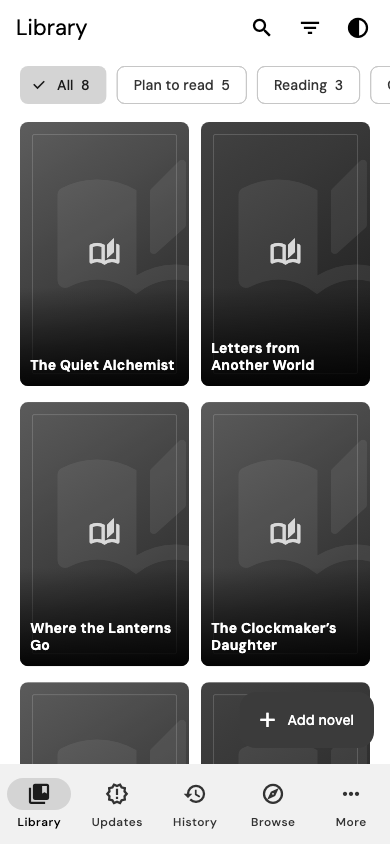
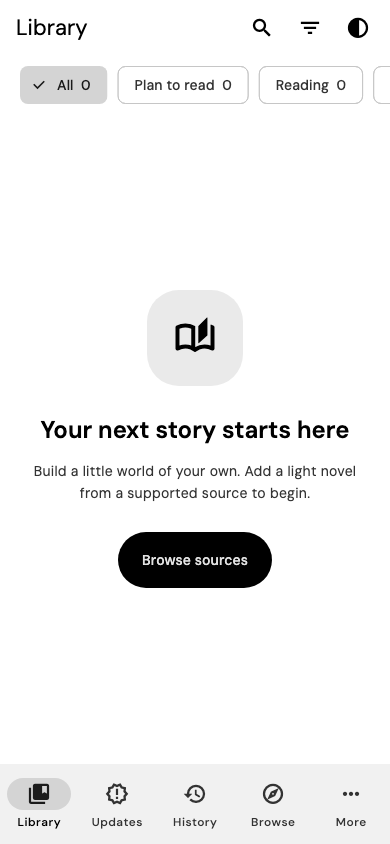
Rename UI to Moonleaf and keep libraries and previews empty

diff --git a/flutter_app/tool/preview_test.dart b/flutter_app/tool/preview_test.dart
@@ -1,35 +1,10 @@
-// Review-only fixtures; the installed app starts with an empty library.
+// Preview the actual empty first-run library, with no seeded novel data.
 // flutter test tool/preview_test.dart --update-goldens
-import 'package:flutter/material.dart';
 import 'package:flutter/services.dart';
 import 'package:flutter_test/flutter_test.dart';
 import 'package:novel_to_epub/library/library_store.dart';
 import 'package:novel_to_epub/main.dart';
 
-LibraryStore previewStore(AppAppearance appearance) => LibraryStore(
-  appearance: appearance,
-  novels: [
-    for (final (index, title) in [
-      'The Paper Kingdom',
-      'A Sky Full of Letters',
-      'The Last Winter Mage',
-      'A Library Beyond the Stars',
-      'The Clockmaker’s Daughter',
-      'Where the Lanterns Go',
-      'Letters from Another World',
-      'The Quiet Alchemist',
-    ].indexed)
-      LibraryNovel(
-        url: 'https://roliascan.com/manga/preview-$index',
-        title: title,
-        author: 'Sample Author',
-        firstChapter: 'https://roliascan.com/read/preview/ch1/',
-        addedAt: DateTime(2026, 1, index + 1),
-        shelf: index % 3 == 0 ? 'Reading' : 'Plan to read',
-        description: 'In a city that has forgotten how to dream, one young librarian discovers that every unwritten story is a doorway. Beyond the shelves, a world of impossible wonders is waiting. These are sample details for reviewing the interface.',
-      ),
-  ],
-);
 void main() {
   setUpAll(() async {
     final icons = FontLoader('MaterialIcons')
@@ -51,18 +26,18 @@ void main() {
     'phone-light': (const Size(390, 844), AppAppearance.light),
     'ereader-light': (const Size(390, 844), AppAppearance.ereaderLight),
     'ereader-dark': (const Size(390, 844), AppAppearance.ereaderDark),
-    'detail': (const Size(390, 844), AppAppearance.dark),
+    'more': (const Size(390, 844), AppAppearance.dark),
   }.entries) {
     testWidgets('${entry.key} preview', (tester) async {
       tester.view.physicalSize = entry.value.$1;
       tester.view.devicePixelRatio = 1;
       addTearDown(tester.view.resetPhysicalSize);
       addTearDown(tester.view.resetDevicePixelRatio);
-      final store = previewStore(entry.value.$2);
+      final store = LibraryStore(appearance: entry.value.$2);
       await tester.pumpWidget(NovelApp(store: store));
       await tester.pumpAndSettle();
-      if (entry.key == 'detail') {
-        await tester.tap(find.byKey(ValueKey(store.novels.last.url)));
+      if (entry.key == 'more') {
+        await tester.tap(find.text('More').last);
         await tester.pumpAndSettle();
       }
       await expectLater(

diff --git a/flutter_app/lib/library/library_screen.dart b/flutter_app/lib/library/library_screen.dart
@@ -311,7 +311,7 @@ class _LibraryScreenState extends State<LibraryScreen> {
                   leading: Padding(
                     padding: const EdgeInsets.only(top: 16, bottom: 28),
                     child: Tooltip(
-                      message: 'Chapter & Verse',
+                      message: 'Moonleaf',
                       child: Icon(
                         Icons.auto_stories_rounded,
                         size: 30,
@@ -603,7 +603,7 @@ class _LibraryScreenState extends State<LibraryScreen> {
           ),
           const SizedBox(height: 16),
           Text(
-            'Chapter & Verse',
+            'Moonleaf',
             textAlign: TextAlign.center,
             style: Theme.of(context).textTheme.headlineSmall
                 ?.copyWith(fontFamily: 'Fraunces'),
@@ -662,7 +662,7 @@ class _LibraryScreenState extends State<LibraryScreen> {
             title: const Text('Open-source licenses'),
             onTap: () => showLicensePage(
               context: context,
-              applicationName: 'Chapter & Verse',
+              applicationName: 'Moonleaf',
             ),
           ),
         ],

diff --git a/flutter_app/test/library_test.dart b/flutter_app/test/library_test.dart
@@ -23,6 +23,20 @@ LibraryNovel fixture(
 );
 
 void main() {
+  testWidgets('fresh install has an empty library and Moonleaf branding', (
+    tester,
+  ) async {
+    SharedPreferences.setMockInitialValues({});
+    await tester.pumpWidget(const NovelApp());
+    await tester.pumpAndSettle();
+    expect((await LibraryStore.load()).novels, isEmpty);
+    expect(find.text('Your next story starts here'), findsOneWidget);
+    expect(find.byKey(const Key('library-grid')), findsNothing);
+    await tester.tap(find.text('More').last);
+    await tester.pumpAndSettle();
+    expect(find.text('Moonleaf'), findsOneWidget);
+  });
+
   test(
     'library, shelves, history and e-reader preference survive reload',
     () async {

diff --git a/flutter_app/lib/widgets/book_art.dart b/flutter_app/lib/widgets/book_art.dart
@@ -5,7 +5,7 @@ class BookArt extends StatelessWidget {
   const BookArt({
     super.key,
     this.title = 'Your next\ngreat read',
-    this.author = 'CHAPTER & VERSE',
+    this.author = 'MOONLEAF',
   });
   final String title;
   final String author;
@@ -73,7 +73,7 @@ class BookArt extends StatelessWidget {
                         width: constraints.maxWidth,
                         child: Text(
                           author.isEmpty
-                              ? 'CHAPTER & VERSE'
+                              ? 'MOONLEAF'
                               : author.toUpperCase(),
                           maxLines: 2,
                           overflow: TextOverflow.ellipsis,

diff --git a/flutter_app/tool/smoke_site.dart b/flutter_app/tool/smoke_site.dart
@@ -8,11 +8,12 @@ import 'package:novel_to_epub/data/site_extractors.dart';
 import 'package:novel_to_epub/data/epub_writer.dart';
 
 Future<void> main(List<String> args) async {
-  final url = Uri.parse(
-    args.isEmpty
-        ? 'https://roliascan.com/manga/the-regressor-and-the-blind-saint-novel/'
-        : args.single,
-  );
+  if (args.length != 1) {
+    stderr.writeln('Usage: dart run tool/smoke_site.dart <novel-url>');
+    exitCode = 64;
+    return;
+  }
+  final url = Uri.parse(args.single);
   final client = http.Client();
   try {
     Future<String> fetch(Uri uri) async {

diff --git a/flutter_app/web/index.html b/flutter_app/web/index.html
@@ -23,13 +23,13 @@
   <!-- iOS meta tags & icons -->
   <meta name="mobile-web-app-capable" content="yes">
   <meta name="apple-mobile-web-app-status-bar-style" content="black">
-  <meta name="apple-mobile-web-app-title" content="Chapter &amp; Verse">
+  <meta name="apple-mobile-web-app-title" content="Moonleaf">
   <link rel="apple-touch-icon" href="icons/Icon-192.png">
 
   <!-- Favicon -->
   <link rel="icon" type="image/png" href="favicon.png"/>
 
-  <title>Chapter &amp; Verse</title>
+  <title>Moonleaf</title>
   <link rel="manifest" href="manifest.json">
 </head>
 <body>

diff --git a/flutter_app/lib/main.dart b/flutter_app/lib/main.dart
@@ -91,7 +91,7 @@ class _NovelAppState extends State<NovelApp> {
             mode == AppAppearance.ereaderLight ||
             mode == AppAppearance.ereaderDark;
         return MaterialApp(
-          title: 'Chapter & Verse',
+          title: 'Moonleaf',
           debugShowCheckedModeBanner: false,
           theme: novelTheme(Brightness.light, ereader: ereader),
           darkTheme: novelTheme(Brightness.dark, ereader: ereader),

diff --git a/flutter_app/lib/library/library_store.dart b/flutter_app/lib/library/library_store.dart
@@ -79,6 +79,7 @@ class LibraryStore extends ChangeNotifier {
     this.grid = true,
     this.sortByTitle = false,
   }) : _novels = List.of(novels);
+  // Keep the existing private storage key so renaming the app preserves user data.
   static const storageKey = 'chapter_verse_library_v1';
   List<LibraryNovel> _novels;
   List<LibraryNovel> get novels => List.unmodifiable(_novels);

diff --git a/flutter_app/linux/runner/my_application.cc b/flutter_app/linux/runner/my_application.cc
@@ -45,11 +45,11 @@ static void my_application_activate(GApplication* application) {
   if (use_header_bar) {
     GtkHeaderBar* header_bar = GTK_HEADER_BAR(gtk_header_bar_new());
     gtk_widget_show(GTK_WIDGET(header_bar));
-    gtk_header_bar_set_title(header_bar, "Chapter & Verse");
+    gtk_header_bar_set_title(header_bar, "Moonleaf");
     gtk_header_bar_set_show_close_button(header_bar, TRUE);
     gtk_window_set_titlebar(window, GTK_WIDGET(header_bar));
   } else {
-    gtk_window_set_title(window, "Chapter & Verse");
+    gtk_window_set_title(window, "Moonleaf");
   }
 
   gtk_window_set_default_size(window, 1280, 720);

diff --git a/flutter_app/windows/runner/main.cpp b/flutter_app/windows/runner/main.cpp
@@ -27,7 +27,7 @@ int APIENTRY wWinMain(_In_ HINSTANCE instance, _In_opt_ HINSTANCE prev,
   FlutterWindow window(project);
   Win32Window::Point origin(10, 10);
   Win32Window::Size size(1280, 720);
-  if (!window.Create(L"Chapter & Verse", origin, size)) {
+  if (!window.Create(L"Moonleaf", origin, size)) {
     return EXIT_FAILURE;
   }
   window.SetQuitOnClose(true);

diff --git a/README.md b/README.md
@@ -1,10 +1,9 @@
-# Light Novel Extractor
+# Moonleaf
 
 Convert supported web novels to EPUB while preserving chapter formatting.
 Currently supports Royal Road and RoliaScan text novels.
 
-For RoliaScan, paste the novel landing page, for example:
-`https://roliascan.com/manga/the-regressor-and-the-blind-saint-novel/`.
+For RoliaScan, paste the landing-page URL of a novel you choose.
 The extractor reads the first-chapter button and follows explicit next links;
 the dynamically loaded chapter list is not needed. Image-only manga and pages
 without accessible novel text raise an error.

diff --git a/flutter_app/DESIGN.md b/flutter_app/DESIGN.md
@@ -17,3 +17,7 @@ Appearance supports system, light, dark, e-reader light, and e-reader dark.
 E-reader appearances use grayscale rendering, black/white surfaces, increased
 contrast, and reduced animation. These are visual modes, not device-specific
 e-ink refresh controls. All modes will be reusable by the future reader.
+
+First-run libraries and published previews are empty. Do not seed books, use
+personal reading selections in examples, or capture an existing user's library
+for screenshots. Live smoke checks require an explicitly supplied URL.
